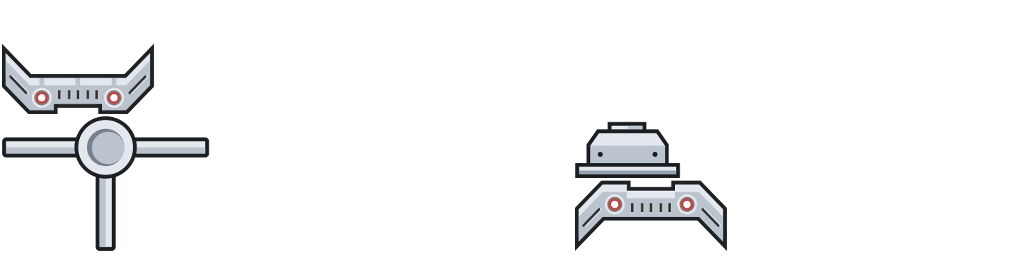
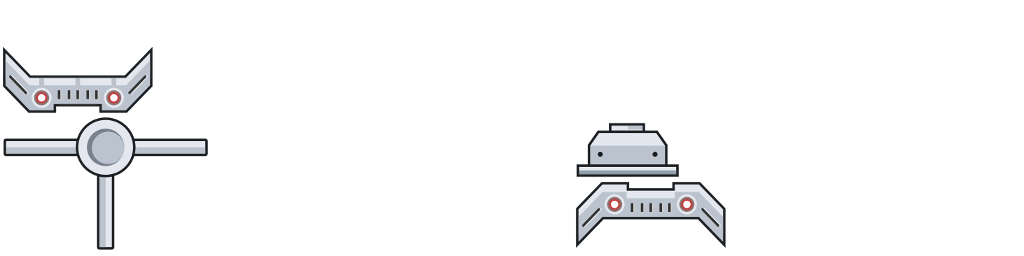
Small tileset update (fences)

diff --git a/src/game/server/mapgen/gen_layer.cpp b/src/game/server/mapgen/gen_layer.cpp
@@ -272,7 +272,7 @@ void CGenLayer::GenerateFences()
 {
 	for (int x = 4; x < m_Width-4; x++)
 	{
-		if (frandom() < 0.5f)
+		if (frandom() < 0.75f)
 			continue;
 		
 		for (int y = 4; y < m_Height-4; y++)
@@ -283,18 +283,18 @@ void CGenLayer::GenerateFences()
 				// boundaries
 				int i = 0;
 				int x1 = 1;
-				while (!Get(x-x1, y) && Get(x-x1, y+1) && i++ < 15)
+				while (!Get(x-x1, y) && Get(x-x1, y+1) && i++ < 20)
 					x1++;
 				
 				int x2 = 1;
-				while (!Get(x+x2, y) && Get(x+x2, y+1) && i++ < 15)
+				while (!Get(x+x2, y) && Get(x+x2, y+1) && i++ < 20)
 					x2++;
 				
 				x1 -= 2;
 				x2 -= 2;
 				
 				// correct size
-				if (x1+x2 >= 4 && (x1+x2)%2 == 0)
+				if (x1+x2 >= 6)
 				{
 					bool Valid = true;
 					
@@ -304,7 +304,7 @@ void CGenLayer::GenerateFences()
 							if (Get(x+xx, y+yy, DOODADS) || Get(x+xx, y+yy, FGOBJECTS))
 								Valid = false;
 
-					if (frandom() < 0.5f)
+					if (frandom() < 0.75f)
 						Valid = false;
 					
 					// avoid door
@@ -314,20 +314,24 @@ void CGenLayer::GenerateFences()
 						
 					if (Valid)
 					{
-						Set(192-16, x-x1, y-1, 0, DOODADS);
-						Set(192, x-x1, y, 0, DOODADS);
+						Set(10*16+9-16, x-x1, y-1, 0, DOODADS);
+						Set(10*16+9, x-x1, y, 0, DOODADS);
 						
 						int r = (x-x1)%2;
 
 						for (int xx = x-(x1-1); xx < x+x2; xx++)
 						{
-							int t = 193 + ((xx%2 == r) ? 1 : 0);
+							int t = 10*16+11;
+							
+							if (xx == x+(-x1+x2)/2 && frandom() < 0.25f)
+								t--;
+							
 							Set(t-16, xx, y-1, 0, DOODADS);
 							Set(t, xx, y, 0, DOODADS);
 						}
 						
-						Set(195-16, x+x2-1, y-1, 0, DOODADS);
-						Set(195, x+x2-1, y, 0, DOODADS);
+						Set(10*16+9-16, x+x2-1, y-1, 1, DOODADS);
+						Set(10*16+9, x+x2-1, y, 1, DOODADS);
 					}
 				}
 			}

diff --git a/src/game/client/customstuff/playerinfo.cpp b/src/game/client/customstuff/playerinfo.cpp
@@ -374,16 +374,21 @@ void CPlayerInfo::PhysicsTick(vec2 PlayerVel, vec2 PrevVel)
 
 
 	// adjust skeleton a bit
-	if (Animation()->m_Flip)
+	int Anim = Animation()->GetAnimation();
+	
+	if (Anim != PANIM_SLIDE && Anim != PANIM_SLIDEDOWN && Anim != PANIM_SLIDEUP && Anim != PANIM_SLIDEKICK)
 	{
-		Animation()->m_BodyTilt = -PlayerVel.x*0.000075f;
-		Animation()->m_HeadTiltCorrect = +PlayerVel.x*0.000035f;
-	}
-	else
-	{
-		Animation()->m_BodyTilt = PlayerVel.x*0.000075f;
-		Animation()->m_HeadTiltCorrect = -PlayerVel.x*0.000035f;
-	}
+		if (Animation()->m_Flip)
+		{
+			Animation()->m_BodyTilt = -PlayerVel.x*0.000075f;
+			Animation()->m_HeadTiltCorrect = +PlayerVel.x*0.000035f;
+		}
+		else
+		{
+			Animation()->m_BodyTilt = PlayerVel.x*0.000075f;
+			Animation()->m_HeadTiltCorrect = -PlayerVel.x*0.000035f;
+		}
+}
 	
 	// flame motion
 	m_aFlameAngle[0] = m_Angle;

diff --git a/src/game/server/mapgen.cpp b/src/game/server/mapgen.cpp
@@ -593,12 +593,12 @@ void CMapGen::GenerateScreen(CGenLayer *pTiles)
 		return;
 	int x = (p.x+p.z)/2;
 	
-	for (int y = 1; y < 5; y++)
+	for (int y = 1; y < 6; y++)
 		if (pTiles->Get(x, p.y-y))
 			return;
 	
 	
-	if (frandom() < 0.55f)
+	if (frandom() < 0.7f)
 		ModifTile(ivec2(x, p.y-1), m_pLayers->GetGameLayerIndex(), ENTITY_OFFSET+ENTITY_SCREEN);
 	else
 		ModifTile(ivec2(x, p.y-1), m_pLayers->GetGameLayerIndex(), ENTITY_OFFSET+ENTITY_REACTOR);

diff --git a/src/game/client/components/buildings.cpp b/src/game/client/components/buildings.cpp
@@ -120,7 +120,7 @@ void CBuildings::RenderScreen(const struct CNetObj_Building *pCurrent)
 	
 	int Anim = ANIM_IDLE1+(pCurrent->m_X/32)%3;
 	
-	RenderTools()->RenderSkeleton(vec2(pCurrent->m_X, pCurrent->m_Y+18), ATLAS_SCREEN, aAnimList[Anim], Time, vec2(1.0f, 1.0f)*0.6f, 0, 0);
+	RenderTools()->RenderSkeleton(vec2(pCurrent->m_X, pCurrent->m_Y+18), ATLAS_SCREEN, aAnimList[Anim], Time, vec2(1.0f, 1.0f)*0.7f, 0, 0);
 }
 
 
